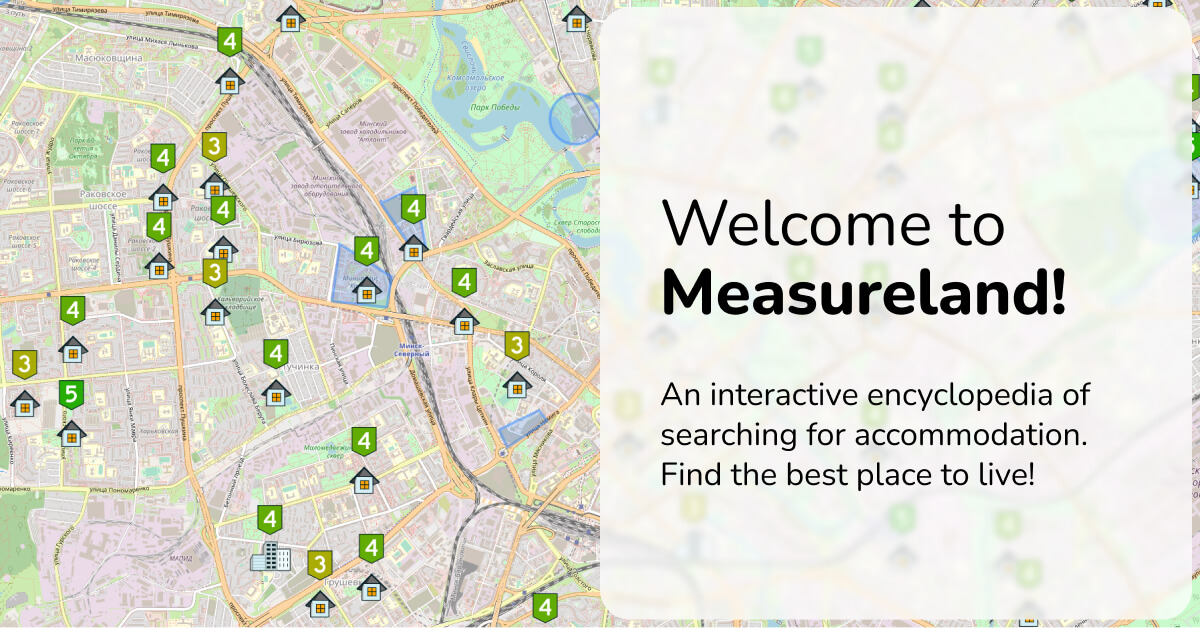
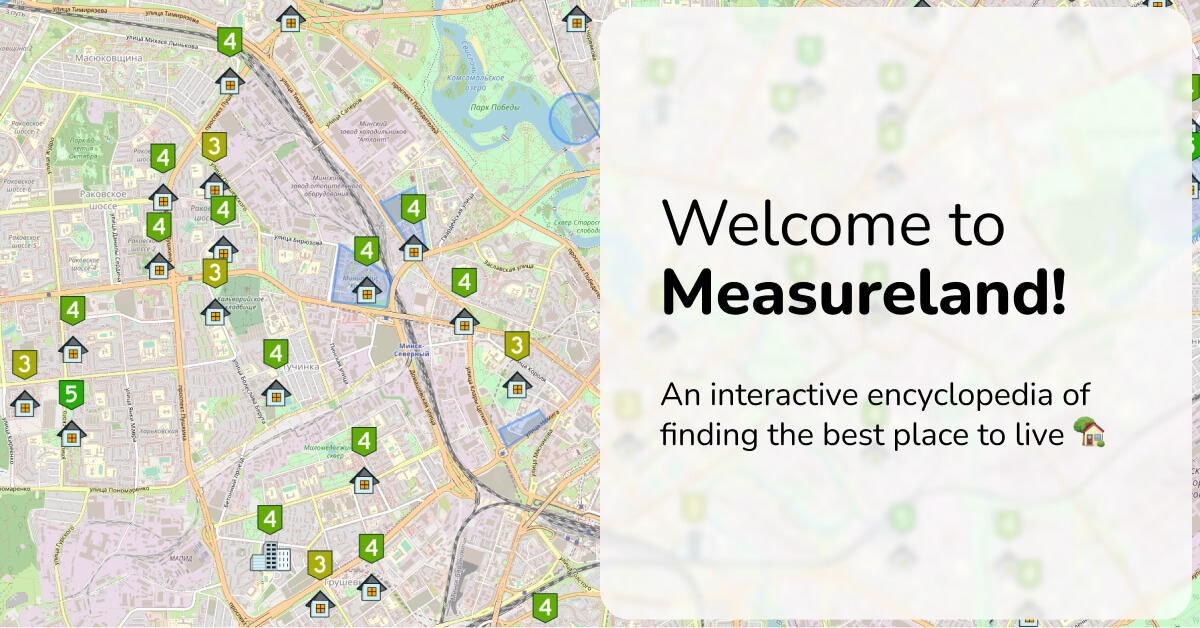
feat: add and update images

Changed region(s): [[0.555, 0.6656, 0.925, 0.7866]]

diff --git a/src/lib/components/Article/Article.svelte b/src/lib/components/Article/Article.svelte
@@ -16,6 +16,7 @@
     export let author = appInfo.authorName;
     export let description;
     export let isAnotherLang = true;
+    export let imageSrc;
 
     const langCode = $locale === 'ru' && 'ru-RU';
     const options = { year: 'numeric', month: 'long', day: 'numeric' };
@@ -29,6 +30,8 @@
     pageTitle="{$_('navBar.logoTitle')} - {title}"
     author={author}
     {isAnotherLang}
+    {imageSrc}
+    isSquareImage={!imageSrc}
 />
 
 <section class="fixed-grad-bg"></section>

diff --git a/README.md b/README.md
@@ -1,4 +1,4 @@
-# Measureland - An interactive encyclopedia of searching for accommodation.
+# Measureland - An interactive encyclopedia of finding the best place to live 🏡.
 
 We want to centralise house searching. We want to build a platform, where people would share their opinions about places they lived at. Where real-estate agencies would post (probably for money) trustworthy stats and information. Where opinions would be backed by facts. We want to build the only platform you need to pick better city, better district, better neighborhood to move to or stay at even if you know nothing about it. We want this platform to be transparent and free for everyone.
 

diff --git a/src/markdown/posts/en/tutorial.md b/src/markdown/posts/en/tutorial.md
@@ -1,12 +1,13 @@
 ---
 slug: tutorial
-title: Measureland Advisory. Our guide book (tutorial).
+title: Measureland Advisory. Our guidebook (tutorial).
 firstDate: 2021-05-19
 date: 2022-03-28
 description: The article is going to cover everything you want to know about Measureland.
 tags: [starters]
 layout: article
 author: Roman Smunyov
+imageSrc: https://measureland.org/images/preview/tutorial_en_150.jpg
 ---
 
 <script>

diff --git a/TODO.md b/TODO.md
@@ -1,8 +1,6 @@
 # To do:
 
 - telegram bot
-- update startscreen text to encyclopedia
-- create preview images to tutorial and minsk
 - upload new image in github repo settings
 - add task for converting light pollution image into API
 

diff --git a/src/markdown/guides/ru/universal-guide.md b/src/markdown/guides/ru/universal-guide.md
@@ -8,6 +8,7 @@ tags: [starters, dev_imp]
 layout: article
 author: Роман Смунёв
 isGuide: true
+imageSrc: https://measureland.org/images/preview/universal-tips_en_150.jpg
 ---
 
 <script>

diff --git a/src/markdown/guides/ru/minsk-belarus.md b/src/markdown/guides/ru/minsk-belarus.md
@@ -8,6 +8,7 @@ tags: [starters]
 layout: article
 author: Роман Смунёв
 isGuide: true
+imageSrc: https://measureland.org/images/preview/minsk_ru_150.jpg
 ---
 
 <script>

diff --git a/src/markdown/guides/en/minsk-belarus.md b/src/markdown/guides/en/minsk-belarus.md
@@ -8,6 +8,7 @@ tags: [starters]
 layout: article
 author: Roman Smunyov
 isGuide: true
+imageSrc: https://measureland.org/images/preview/minsk_en_150.jpg
 ---
 
 <script>
